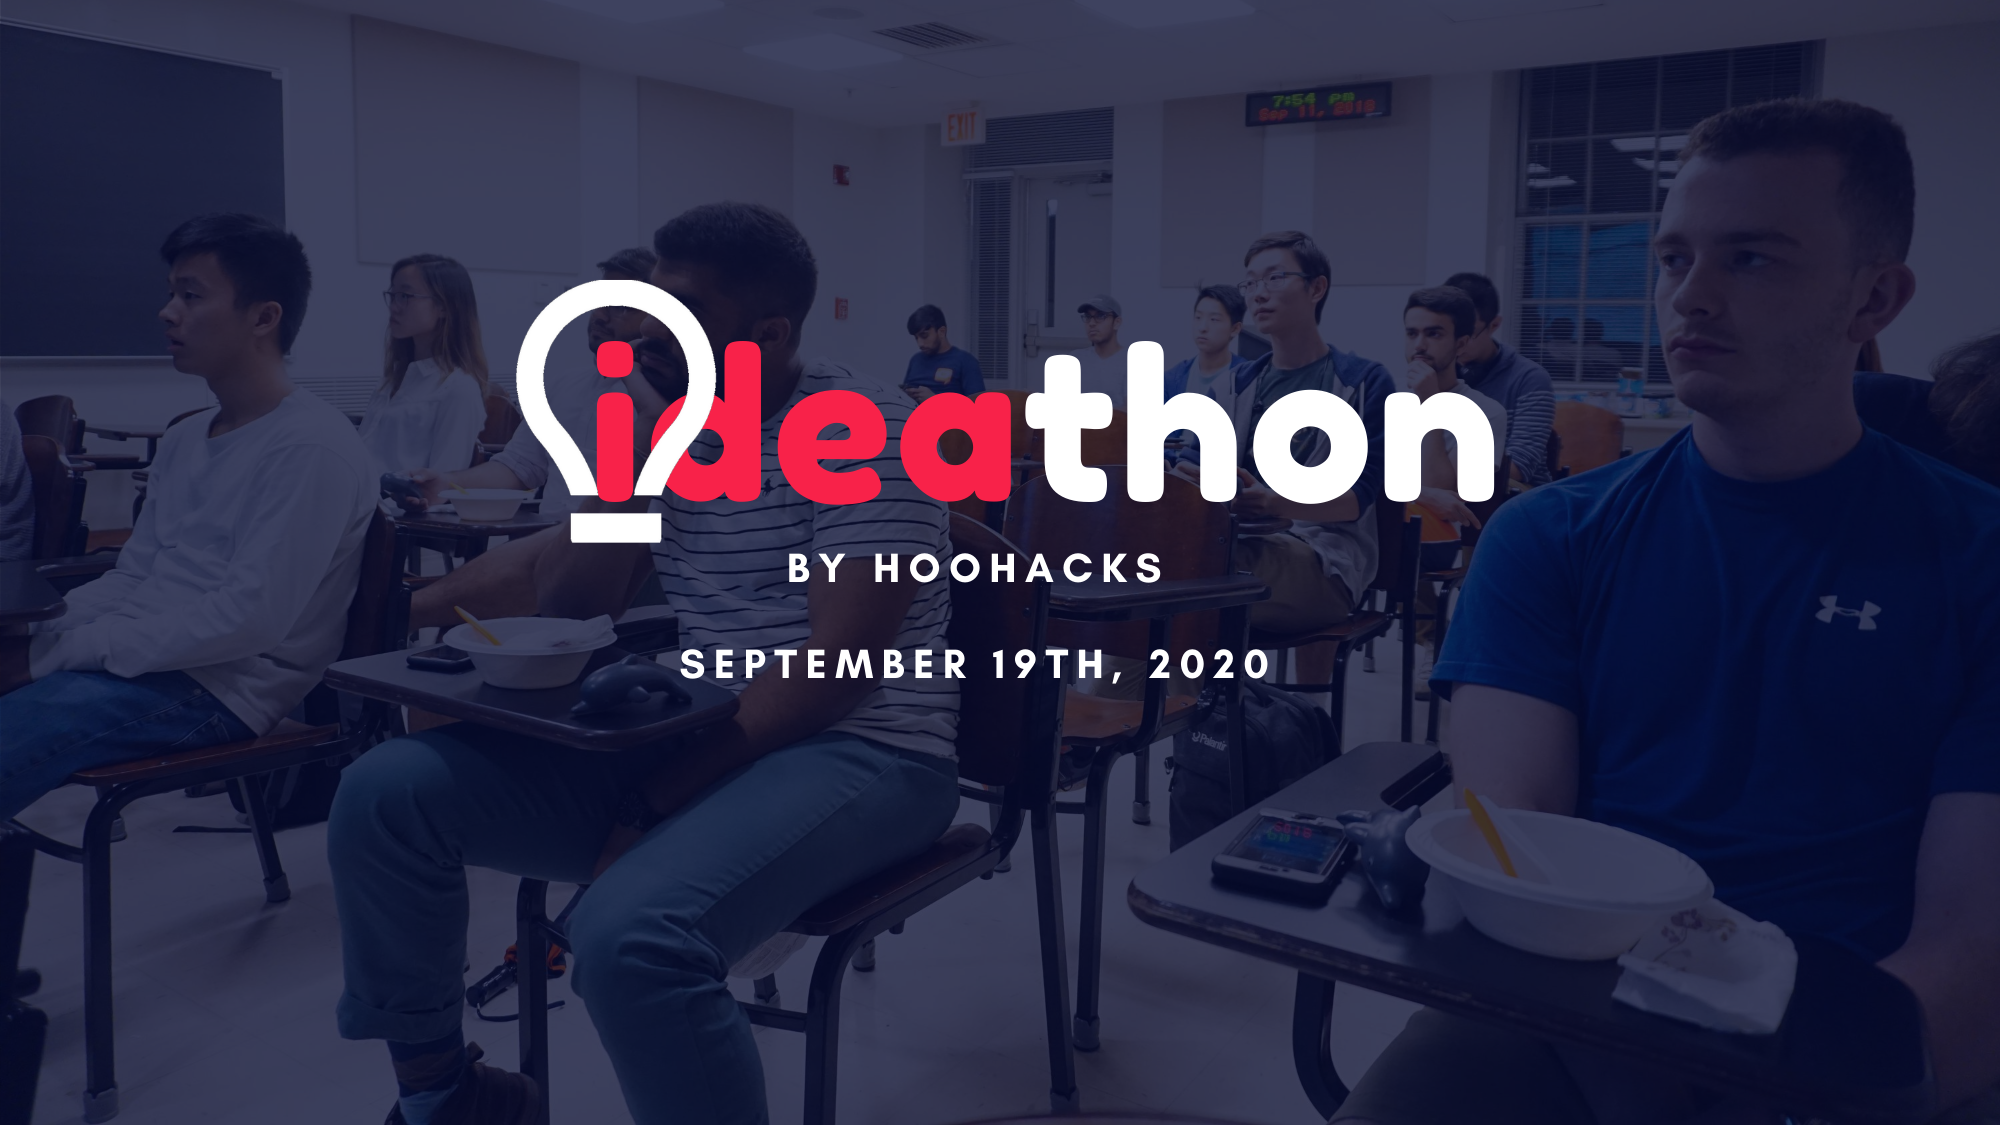
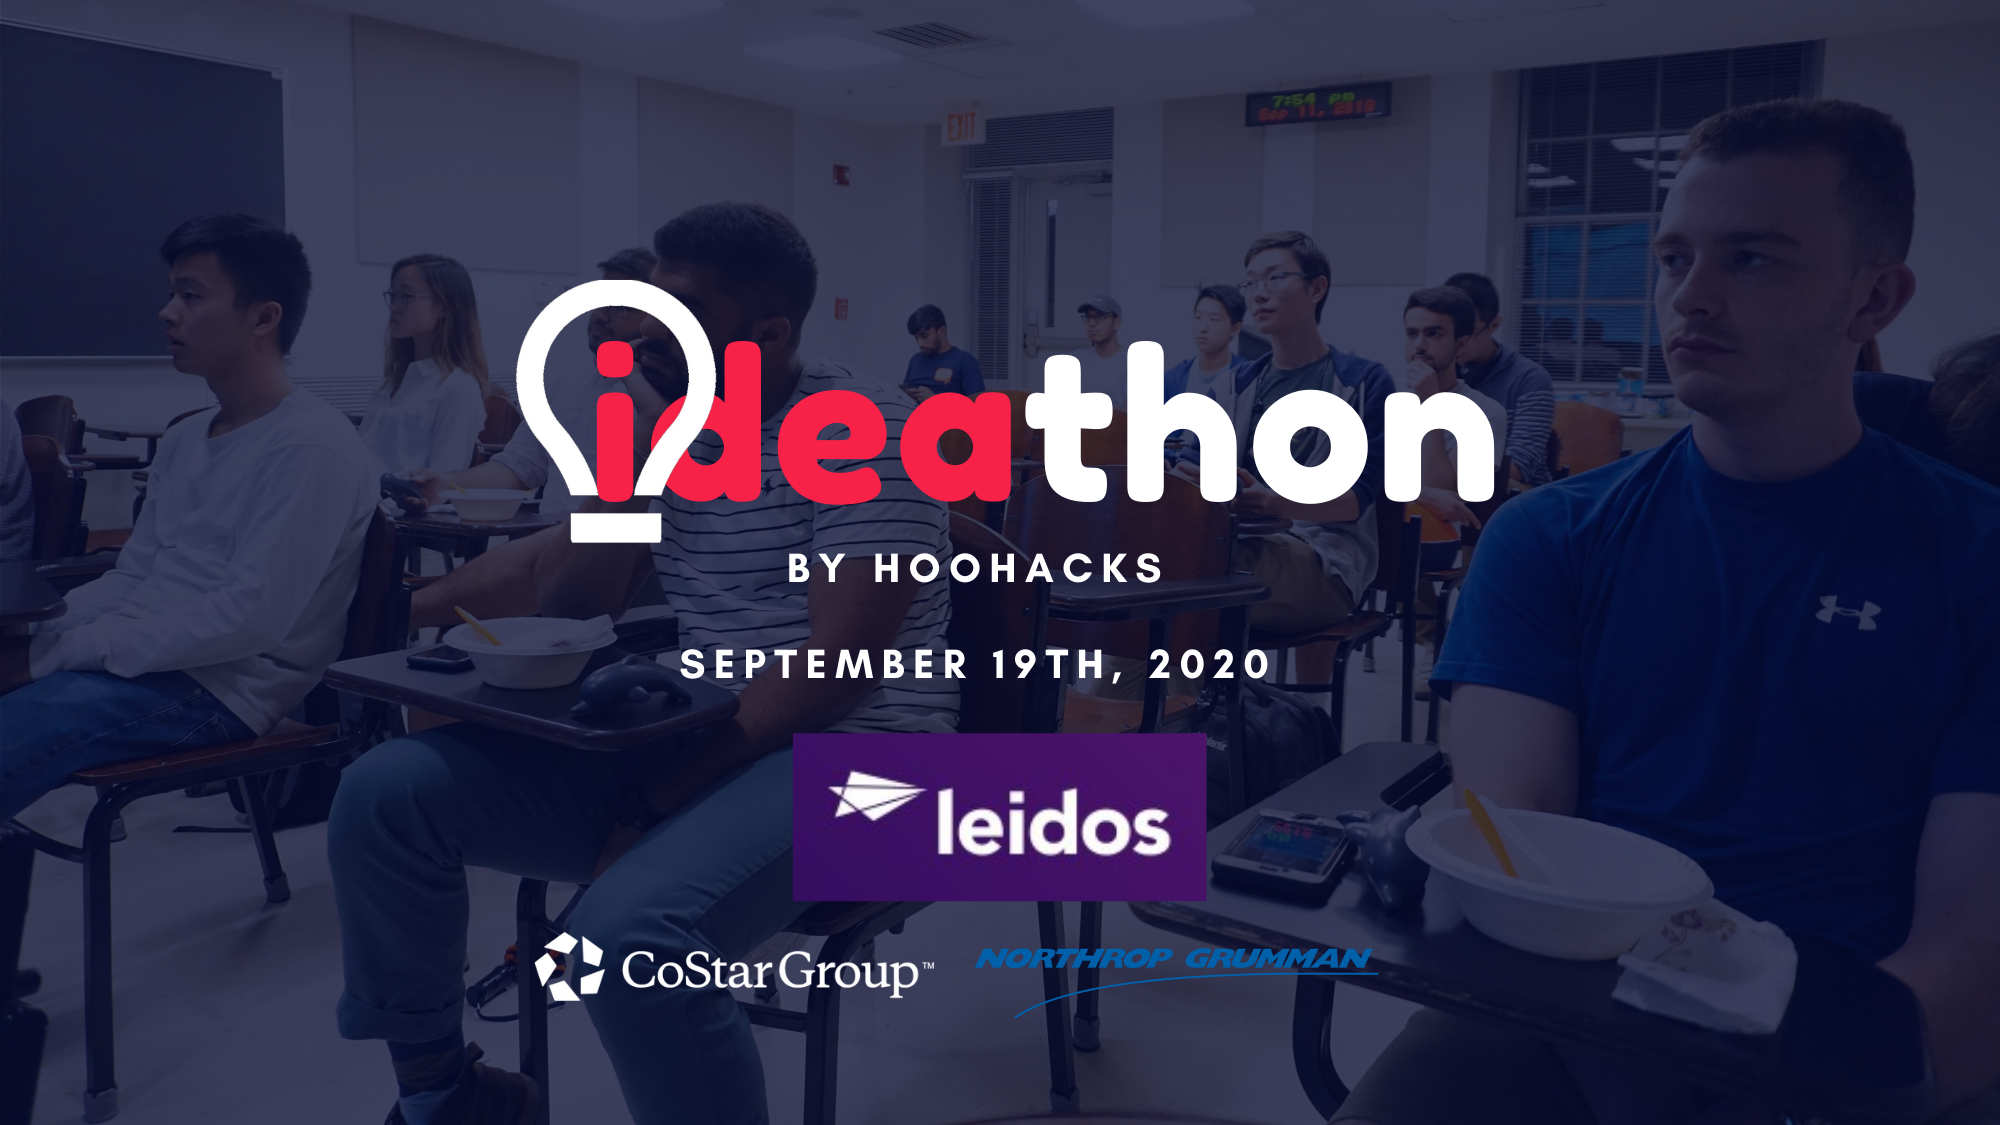
Update website to include sponsors and seed money

Changed region(s): [[0.372, 0.6533, 0.62, 0.8089], [0.248, 0.8089, 0.682, 0.9022]]

diff --git a/index.html b/index.html
@@ -53,7 +53,7 @@
       <div id="logo" class="pull-left">
         <!-- Uncomment below if you prefer to use a text logo -->
         <!-- <h1><a href="#main">C<span>o</span>nf</a></h1>-->
-        <a href="#intro" class="scrollto"><img src="img/hoohacks_alternate_logo.png" alt="" title="" style="padding-right: 6px;"></a>
+        <!-- <a href="#intro" class="scrollto"><img src="img/hoohacks_alternate_logo.png" alt="" title="" style="padding-right: 6px;"></a> -->
         <!--
         <a href="#intro" class="scrollto"><img src="img/vvf.png" alt="" title=""></a>
         -->
@@ -124,8 +124,8 @@
                 on what it takes to build a tech startup.
                 <br/>
                 <br/>
-                <b style="color:#f82249">Pitch their ideas to a Shark Tank-esque board and to their fellow students for feedback. </b>
-                Students will be able to pitch their ideas in both an expo experiment, as well as to a panel of professionals for feedback.
+                <b style="color:#f82249">Pitch their ideas to a Shark Tank-esque board and to their fellow students for feedback and seed money. </b>
+                Students will be able to pitch their ideas in both an expo experiment, as well as to a panel of professionals for feedback and seed money.
             </p>
             <br/>
 
@@ -221,7 +221,7 @@
               <div class="col-md-2"><time></time></div>
               <div class="col-md-10">
                 <h4>Workshops<span></span></h4>
-                <p>Hosted by CoStar and HooHacks.</p>
+                <p>Hosted by Leidos, CoStar and HooHacks.</p>
               </div>
             </div>
 
@@ -312,6 +312,8 @@
                 <div id="studentfaq3" class="collapse" data-parent="#faq-list">
                 <p>
                     A mentor/point of contact and a team for their ideas. An understanding of what a hackathon is, experience in both COMM and CS and their conjunction. A market plan and a CS outline for building their application, free lunch, and potentially extra credit for their classes.
+
+                    Teams will also have the opportunity to win seed money to bring their idea to life.
                   </p>
                 </div>
             </li>
@@ -386,6 +388,8 @@
 						  <div id="sponsorfaq2" class="collapse" data-parent="#faq-list">
 							<p>
                   Sponsors can acquaint themselves with UVA students who are passionate about a cool idea with the capability to execute on it. They can also develop relationships with UVA clubs, especially VVF and HooHacks. They can also help foster entrepreneurship at UVA.
+
+                  Contact us for more information about sponsoring our event.
                 </p>
 						  </div>
 						</li>
